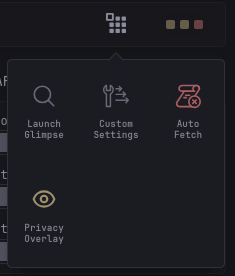
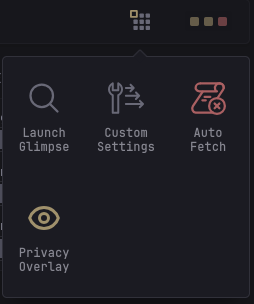
(custom-menu): Adjust sizes

diff --git a/custom-menu/script.js b/custom-menu/script.js
@@ -45,7 +45,7 @@ document.addEventListener('DOMContentLoaded', async () => {
     newElement.style.cursor = 'progress';
     newElement.classList.add('custom-menu');
     newElement.innerHTML = `
-      <div class="custom-menu-popover" data-popover-type="html" data-popover-show-delay="0" ${properties}>
+      <div class="custom-menu-popover" data-popover-type="html" data-popover-show-delay="0" data-popover-max-width="500px" ${properties}>
         <div data-popover-html>
           <div class="custom-menu-items"></div>
         </div>

diff --git a/custom-menu/style.css b/custom-menu/style.css
@@ -53,7 +53,7 @@
   border-radius: var(--border-radius);
   aspect-ratio: 1 / 1;
   padding: 1.3rem;
-  width: 5.2rem;
+  width: 6.2rem;
 }
 
 .popover-content .custom-menu-items .custom-menu-item:hover {
@@ -69,7 +69,7 @@
   overflow: hidden;
   text-align: center;
   padding: 0 0.8rem;
-  font-size: 0.7em;
+  font-size: 0.9em;
   font-weight: bold;
   color: var(--color-text-paragraph);
 }
